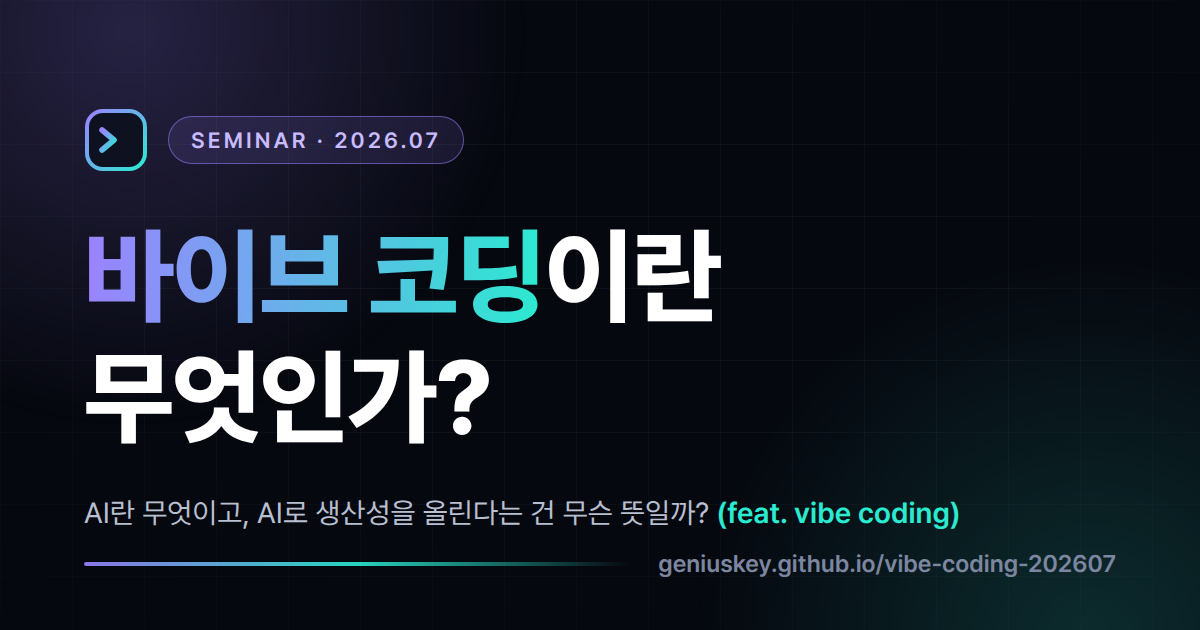
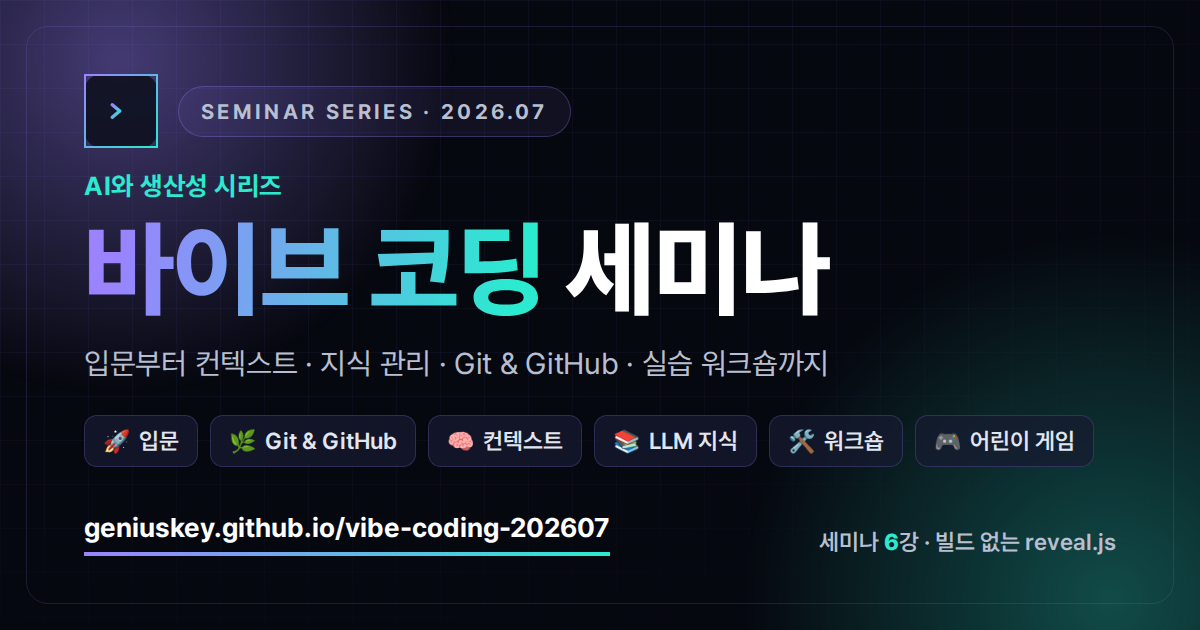
정적 호스팅 /qa/health 콘솔 에러 제거 + 루트 OG 이미지를 시리즈 허브용으로 교체
- 각 덱(intro·context·github·knowledge·workshop)의 실시간 Q&A 서버 프로브를
  localhost/LAN 호스트에서만 실행하도록 가드. GitHub Pages 등 정적 호스팅에서는
  /qa/health 가 404가 되어 콘솔에 "Failed to load resource" 에러를 남겼는데
  (.catch 로도 지워지지 않음), 서버가 있을 리 없는 호스트에서는 아예 요청하지
  않게 하여 에러를 없앰. 정적에서는 기존대로 조용히 슬라이드만 동작.
- 루트 og-image.png 교체: 기존 이미지는 intro 덱 제목("무엇인가?")만 담고 있어
  리디자인된 대표(허브) 페이지와 불일치했음. 6강 시리즈 허브를 나타내는
  이미지로 교체(사이트 브랜딩 색·그라디언트·칩 반영, 1200×630).

Claude-Session: https://claude.ai/code/session_0154RWiYfdQHfgfvnYmhgB17

diff --git a/knowledge/index.html b/knowledge/index.html
@@ -2889,10 +2889,22 @@ GLOSSARY.md를 만들어줘 — 대표어·동의어 목록·한 줄 정의.
   const shownIds = new Set();
   let history = [];
 
-  fetch('/qa/health', { signal: AbortSignal.timeout(800) })
-    .then((r) => (r.ok ? r.json() : null))
-    .then((d) => { if (d && d.ok) initLiveQa(); })
-    .catch(() => {});
+  // 실시간 Q&A 서버는 로컬 발표 환경(localhost 또는 같은 Wi-Fi의 LAN IP)에만 존재한다.
+  // GitHub Pages 등 정적 호스팅에서는 /qa/health 가 404가 되어 콘솔에
+  // "Failed to load resource" 에러를 남기므로(.catch 로도 지워지지 않는다),
+  // 서버가 있을 법한 호스트에서만 프로브한다. 정적 호스팅에서는 조용히 슬라이드만 동작.
+  const qaHost = location.hostname;
+  const qaMaybeLive =
+    location.protocol !== 'file:' &&
+    (qaHost === 'localhost' || qaHost === '127.0.0.1' || qaHost === '::1' ||
+      /^10\./.test(qaHost) || /^192\.168\./.test(qaHost) ||
+      /^172\.(1[6-9]|2\d|3[01])\./.test(qaHost));
+  if (qaMaybeLive) {
+    fetch('/qa/health', { signal: AbortSignal.timeout(800) })
+      .then((r) => (r.ok ? r.json() : null))
+      .then((d) => { if (d && d.ok) initLiveQa(); })
+      .catch(() => {});
+  }
 
   function initLiveQa() {
     document.getElementById('qa-root').classList.remove('qa-hidden');

diff --git a/context/index.html b/context/index.html
@@ -2563,10 +2563,22 @@ wafer Y 수율이 <span class="nm">72.3%</span>로 떨어졌고…"</pre>
   const shownIds = new Set();
   let history = [];
 
-  fetch('/qa/health', { signal: AbortSignal.timeout(800) })
-    .then((r) => (r.ok ? r.json() : null))
-    .then((d) => { if (d && d.ok) initLiveQa(); })
-    .catch(() => {});
+  // 실시간 Q&A 서버는 로컬 발표 환경(localhost 또는 같은 Wi-Fi의 LAN IP)에만 존재한다.
+  // GitHub Pages 등 정적 호스팅에서는 /qa/health 가 404가 되어 콘솔에
+  // "Failed to load resource" 에러를 남기므로(.catch 로도 지워지지 않는다),
+  // 서버가 있을 법한 호스트에서만 프로브한다. 정적 호스팅에서는 조용히 슬라이드만 동작.
+  const qaHost = location.hostname;
+  const qaMaybeLive =
+    location.protocol !== 'file:' &&
+    (qaHost === 'localhost' || qaHost === '127.0.0.1' || qaHost === '::1' ||
+      /^10\./.test(qaHost) || /^192\.168\./.test(qaHost) ||
+      /^172\.(1[6-9]|2\d|3[01])\./.test(qaHost));
+  if (qaMaybeLive) {
+    fetch('/qa/health', { signal: AbortSignal.timeout(800) })
+      .then((r) => (r.ok ? r.json() : null))
+      .then((d) => { if (d && d.ok) initLiveQa(); })
+      .catch(() => {});
+  }
 
   function initLiveQa() {
     document.getElementById('qa-root').classList.remove('qa-hidden');

diff --git a/intro/index.html b/intro/index.html
@@ -4908,10 +4908,22 @@ footer, header, hgroup, main, menu, nav, section {
   const shownIds = new Set();
   let history = [];
 
-  fetch('/qa/health', { signal: AbortSignal.timeout(800) })
-    .then((r) => (r.ok ? r.json() : null))
-    .then((d) => { if (d && d.ok) initLiveQa(); })
-    .catch(() => {});
+  // 실시간 Q&A 서버는 로컬 발표 환경(localhost 또는 같은 Wi-Fi의 LAN IP)에만 존재한다.
+  // GitHub Pages 등 정적 호스팅에서는 /qa/health 가 404가 되어 콘솔에
+  // "Failed to load resource" 에러를 남기므로(.catch 로도 지워지지 않는다),
+  // 서버가 있을 법한 호스트에서만 프로브한다. 정적 호스팅에서는 조용히 슬라이드만 동작.
+  const qaHost = location.hostname;
+  const qaMaybeLive =
+    location.protocol !== 'file:' &&
+    (qaHost === 'localhost' || qaHost === '127.0.0.1' || qaHost === '::1' ||
+      /^10\./.test(qaHost) || /^192\.168\./.test(qaHost) ||
+      /^172\.(1[6-9]|2\d|3[01])\./.test(qaHost));
+  if (qaMaybeLive) {
+    fetch('/qa/health', { signal: AbortSignal.timeout(800) })
+      .then((r) => (r.ok ? r.json() : null))
+      .then((d) => { if (d && d.ok) initLiveQa(); })
+      .catch(() => {});
+  }
 
   function initLiveQa() {
     document.getElementById('qa-root').classList.remove('qa-hidden');

diff --git a/github/index.html b/github/index.html
@@ -2228,10 +2228,22 @@ git subtree push --prefix dist origin gh-pages
   const shownIds = new Set();
   let history = [];
 
-  fetch('/qa/health', { signal: AbortSignal.timeout(800) })
-    .then((r) => (r.ok ? r.json() : null))
-    .then((d) => { if (d && d.ok) initLiveQa(); })
-    .catch(() => {});
+  // 실시간 Q&A 서버는 로컬 발표 환경(localhost 또는 같은 Wi-Fi의 LAN IP)에만 존재한다.
+  // GitHub Pages 등 정적 호스팅에서는 /qa/health 가 404가 되어 콘솔에
+  // "Failed to load resource" 에러를 남기므로(.catch 로도 지워지지 않는다),
+  // 서버가 있을 법한 호스트에서만 프로브한다. 정적 호스팅에서는 조용히 슬라이드만 동작.
+  const qaHost = location.hostname;
+  const qaMaybeLive =
+    location.protocol !== 'file:' &&
+    (qaHost === 'localhost' || qaHost === '127.0.0.1' || qaHost === '::1' ||
+      /^10\./.test(qaHost) || /^192\.168\./.test(qaHost) ||
+      /^172\.(1[6-9]|2\d|3[01])\./.test(qaHost));
+  if (qaMaybeLive) {
+    fetch('/qa/health', { signal: AbortSignal.timeout(800) })
+      .then((r) => (r.ok ? r.json() : null))
+      .then((d) => { if (d && d.ok) initLiveQa(); })
+      .catch(() => {});
+  }
 
   function initLiveQa() {
     document.getElementById('qa-root').classList.remove('qa-hidden');

diff --git a/workshop/index.html b/workshop/index.html
@@ -3636,10 +3636,22 @@ git push -u origin main</div>
   const shownIds = new Set();
   let history = [];
 
-  fetch('/qa/health', { signal: AbortSignal.timeout(800) })
-    .then((r) => (r.ok ? r.json() : null))
-    .then((d) => { if (d && d.ok) initLiveQa(); })
-    .catch(() => {});
+  // 실시간 Q&A 서버는 로컬 발표 환경(localhost 또는 같은 Wi-Fi의 LAN IP)에만 존재한다.
+  // GitHub Pages 등 정적 호스팅에서는 /qa/health 가 404가 되어 콘솔에
+  // "Failed to load resource" 에러를 남기므로(.catch 로도 지워지지 않는다),
+  // 서버가 있을 법한 호스트에서만 프로브한다. 정적 호스팅에서는 조용히 슬라이드만 동작.
+  const qaHost = location.hostname;
+  const qaMaybeLive =
+    location.protocol !== 'file:' &&
+    (qaHost === 'localhost' || qaHost === '127.0.0.1' || qaHost === '::1' ||
+      /^10\./.test(qaHost) || /^192\.168\./.test(qaHost) ||
+      /^172\.(1[6-9]|2\d|3[01])\./.test(qaHost));
+  if (qaMaybeLive) {
+    fetch('/qa/health', { signal: AbortSignal.timeout(800) })
+      .then((r) => (r.ok ? r.json() : null))
+      .then((d) => { if (d && d.ok) initLiveQa(); })
+      .catch(() => {});
+  }
 
   function initLiveQa() {
     document.getElementById('qa-root').classList.remove('qa-hidden');
